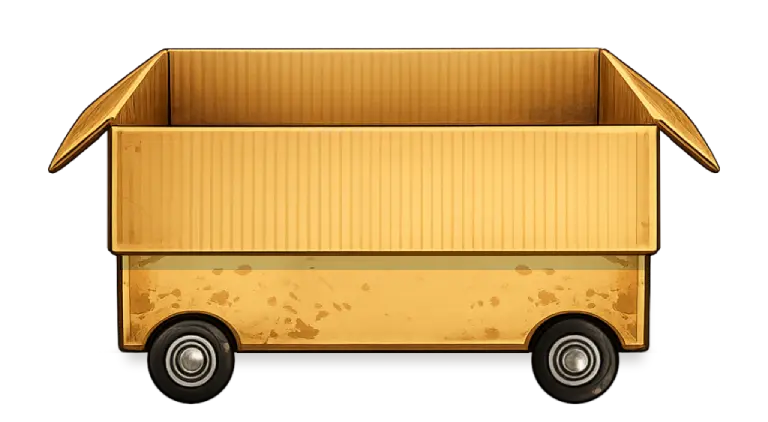
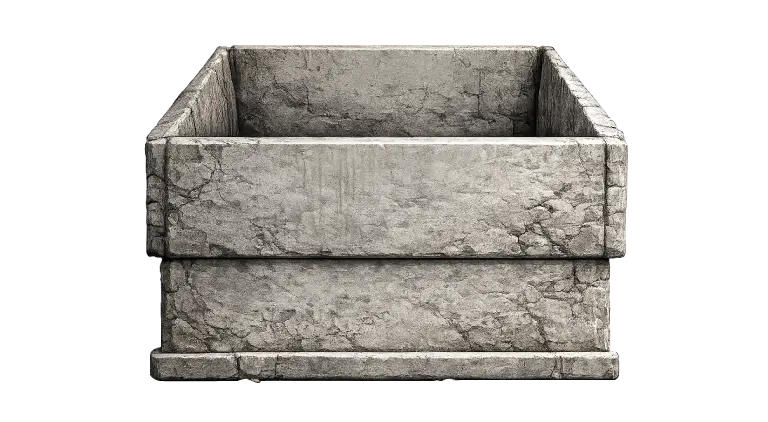
The onomatopoeia was added, and the stone box

diff --git a/src/game/systems/SpeechBubbleSystem.ts b/src/game/systems/SpeechBubbleSystem.ts
@@ -1,0 +1,87 @@
+import * as Phaser from "phaser"
+import { EventBus } from "../EventBus"
+import type { SwipeHitEvent } from "./SwipeSystem"
+
+const PLAYER_X = 960
+const PLAYER_Y = 440
+const LERP_TO_PLAYER = 0.35
+
+const BUBBLE_KEYS = [
+  "speech_bubble_1",
+  "speech_bubble_2",
+  "speech_bubble_3",
+  "speech_bubble_4",
+] as const
+
+const BUBBLE_DISPLAY_MS = 500
+const BUBBLE_W = 278
+const BUBBLE_H = 184
+
+export class SpeechBubbleSystem {
+  private readonly scene: Phaser.Scene
+  private hitCount = 0
+  private hitTarget: number
+  private bubble?: Phaser.GameObjects.Image
+  private hideTimer?: Phaser.Time.TimerEvent
+
+  constructor(scene: Phaser.Scene) {
+    this.scene = scene
+    this.hitTarget = this.nextTarget()
+    scene.events.on("swipe:hit", this.onSwipeHit, this)
+    EventBus.on("RUN_STARTED", this.reset, this)
+  }
+
+  private nextTarget(): number {
+    return Phaser.Math.Between(2, 6)
+  }
+
+  private reset(): void {
+    this.hitCount = 0
+    this.hitTarget = this.nextTarget()
+    this.hideTimer?.remove()
+    this.bubble?.destroy()
+    this.bubble = undefined
+    this.hideTimer = undefined
+  }
+
+  private onSwipeHit(e: SwipeHitEvent): void {
+    if (!e.didHit) return
+    this.hitCount++
+    if (this.hitCount >= this.hitTarget) {
+      this.showBubble(e.startX, e.startY, e.direction.x)
+      this.hitCount = 0
+      this.hitTarget = this.nextTarget()
+    }
+  }
+
+  private showBubble(x: number, y: number, directionX: number): void {
+    this.hideTimer?.remove()
+    this.bubble?.destroy()
+
+    const key = BUBBLE_KEYS[Phaser.Math.Between(0, BUBBLE_KEYS.length - 1)]
+    const angleDeg = Phaser.Math.Between(10, 40)
+    const rotation = directionX < 0 ? angleDeg : -angleDeg
+
+    const bx = x + (PLAYER_X - x) * LERP_TO_PLAYER
+    const by = y + (PLAYER_Y - y) * LERP_TO_PLAYER
+
+    this.bubble = this.scene.add
+      .image(bx, by, key)
+      .setDisplaySize(BUBBLE_W, BUBBLE_H)
+      .setAngle(rotation)
+      .setDepth(200)
+
+    this.hideTimer = this.scene.time.delayedCall(BUBBLE_DISPLAY_MS, () => {
+      this.bubble?.destroy()
+      this.bubble = undefined
+      this.hideTimer = undefined
+    })
+  }
+
+  destroy(): void {
+    this.scene.events.off("swipe:hit", this.onSwipeHit, this)
+    EventBus.off("RUN_STARTED", this.reset, this)
+    this.hideTimer?.remove()
+    this.bubble?.destroy()
+  }
+}

diff --git a/src/game/scenes/PreloadScene.ts b/src/game/scenes/PreloadScene.ts
@@ -20,7 +20,7 @@ const REAL_SPRITES: Record<string, string> = {
   catch_box: "assets/catch_box.png",
   catch_box_basic_box: "assets/catchBoxes/catch_box1.webp",
   catch_box_wide_box: "assets/catchBoxes/catch_box2.webp",
-  catch_box_wheel_box: "assets/catchBoxes/catch_box3.webp",
+  catch_box_stone_box: "assets/catchBoxes/catch_box3.webp",
   catch_box_magnet_box: "assets/catchBoxes/catch_box4.webp",
   catch_box_bonus_box: "assets/catchBoxes/catch_box5.webp",
   catch_box_ultimate_box: "assets/catchBoxes/catch_box6.webp",
@@ -42,6 +42,10 @@ const REAL_SPRITES: Record<string, string> = {
   music_off: "assets/ui/music_off.png",
   sound_on: "assets/ui/sound_on.png",
   sound_off: "assets/ui/sound_off.png",
+  speech_bubble_1: "assets/speechBubbles/speechBubble1.webp",
+  speech_bubble_2: "assets/speechBubbles/speechBubble2.webp",
+  speech_bubble_3: "assets/speechBubbles/speechBubble3.webp",
+  speech_bubble_4: "assets/speechBubbles/speechBubble4.webp",
   ...Object.fromEntries(
     listCombatCursorAssets().map(({ key, path }) => [key, path]),
   ),
@@ -175,7 +179,7 @@ export class PreloadScene extends Phaser.Scene {
         break
       case "catch_box_basic_box":
       case "catch_box_wide_box":
-      case "catch_box_wheel_box":
+      case "catch_box_stone_box":
       case "catch_box_magnet_box":
       case "catch_box_bonus_box":
       case "catch_box_ultimate_box":

diff --git a/src/game/scenes/GameScene.ts b/src/game/scenes/GameScene.ts
@@ -14,6 +14,7 @@ import { AudioSystem } from "../systems/AudioSystem"
 import { ParticleSystem } from "../systems/ParticleSystem"
 import { EconomySystem } from "../systems/EconomySystem"
 import { HapticsSystem } from "../systems/HapticsSystem"
+import { SpeechBubbleSystem } from "../systems/SpeechBubbleSystem"
 import { getCombatLoadout } from "../data/combatLoadouts"
 import { getBox } from "../data/boxes"
 import { swipeStrength } from "../utils/math"
@@ -70,6 +71,7 @@ export class GameScene extends Phaser.Scene {
   private particles!: ParticleSystem
   private economy!: EconomySystem
   private haptics!: HapticsSystem
+  private speechBubbles!: SpeechBubbleSystem
   private combatLoadout!: CombatLoadout
 
   constructor() {
@@ -170,6 +172,7 @@ export class GameScene extends Phaser.Scene {
       boxId,
     )
     this.haptics = new HapticsSystem(this, vibration)
+    this.speechBubbles = new SpeechBubbleSystem(this)
   }
 
   // ── EventBus bridge ───────────────────────────────────────
@@ -351,5 +354,6 @@ export class GameScene extends Phaser.Scene {
     this.particles?.destroy()
     this.economy?.destroy()
     this.haptics?.destroy()
+    this.speechBubbles?.destroy()
   }
 }

diff --git a/src/game/data/shopCatalog.ts b/src/game/data/shopCatalog.ts
@@ -224,14 +224,14 @@ export const SHOP_BOXES: ShopBoxCatalogItem[] = [
   },
   {
     category: "box",
-    id: "wheel_box",
+    id: "stone_box",
     name: "Caja con ruedas",
     size: 1.0,
-    collider: 1.0,
-    speed: 3.5,
+    collider: 0.8,
+    speed: 0.5,
     bonus: 1.1,
     price: 1500,
-    description: "Para los que tienen mucha prisa.",
+    description: "Echa el freno vaquero, mi ritmo es más tranquilo.",
     unlockLevel: 1,
     tier: 3,
     imageSrc: shopImageSrc("boxes", "box", 3),

diff --git a/src/game/data/boxes.ts b/src/game/data/boxes.ts
@@ -59,7 +59,7 @@ export const BOXES_MAP = new Map<string, BoxItem>(BOXES.map((b) => [b.id, b]))
 
 const BOX_ALIASES: Record<string, string> = {
   small_box: "basic_box",
-  fast_box: "wheel_box",
+  fast_box: "stone_box",
   golden_box: "bonus_box",
   premium_box: "ultimate_box",
 }
